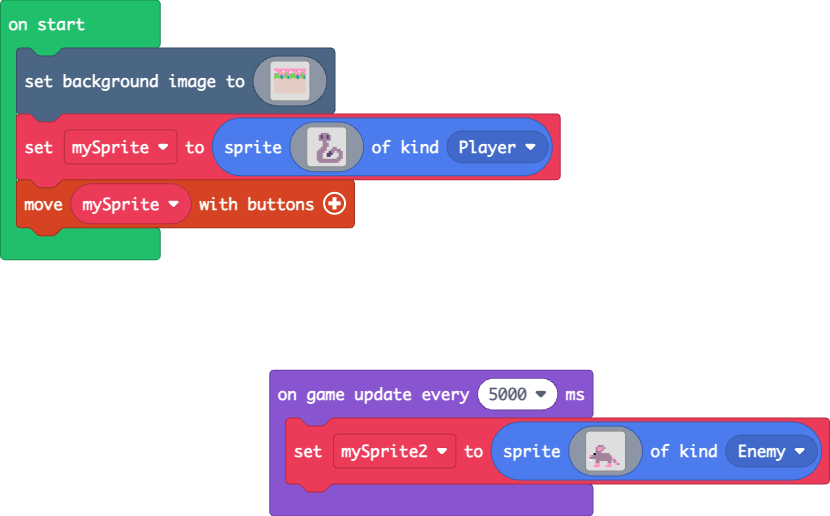
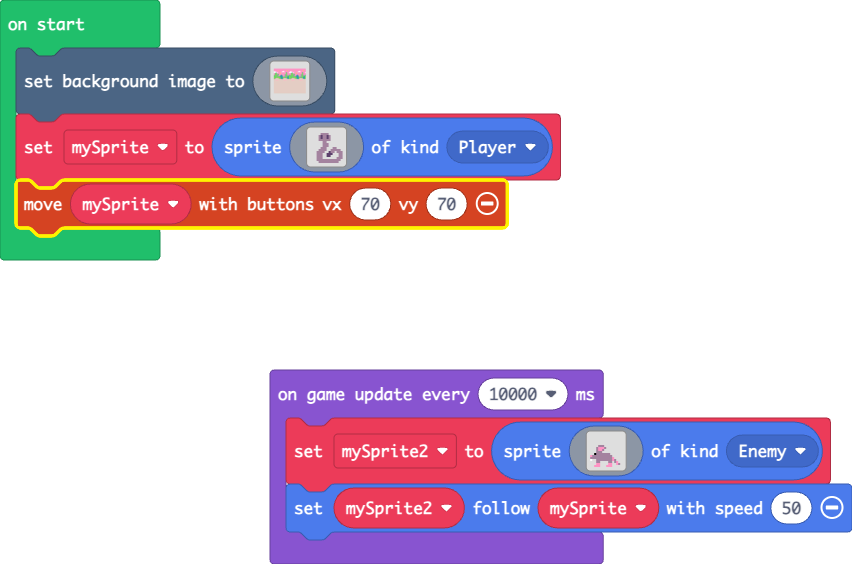
Update main.blocks, main.ts

Changed region(s): [[0.0, 0.0, 0.6928, 0.5271], [0.3012, 0.6512, 1.0, 1.0]]

diff --git a/main.ts b/main.ts
@@ -139,8 +139,8 @@ let mySprite = sprites.create(img`
     . . . b b b b b b b b b b b b . 
     . . . . b b b b b b b b b b . . 
     `, SpriteKind.Player)
-controller.moveSprite(mySprite)
-game.onUpdateInterval(5000, function () {
+controller.moveSprite(mySprite, 70, 70)
+game.onUpdateInterval(10000, function () {
     mySprite2 = sprites.create(img`
         . . . . . . . . . . . . . . . . 
         . . . . . . . . . . . . . . . . 
@@ -159,4 +159,5 @@ game.onUpdateInterval(5000, function () {
         . . . 3 3 . . . . 3 3 . . 3 b . 
         . . 3 3 3 . . . 3 3 3 . . . . . 
         `, SpriteKind.Enemy)
+    mySprite2.follow(mySprite, 50)
 })
